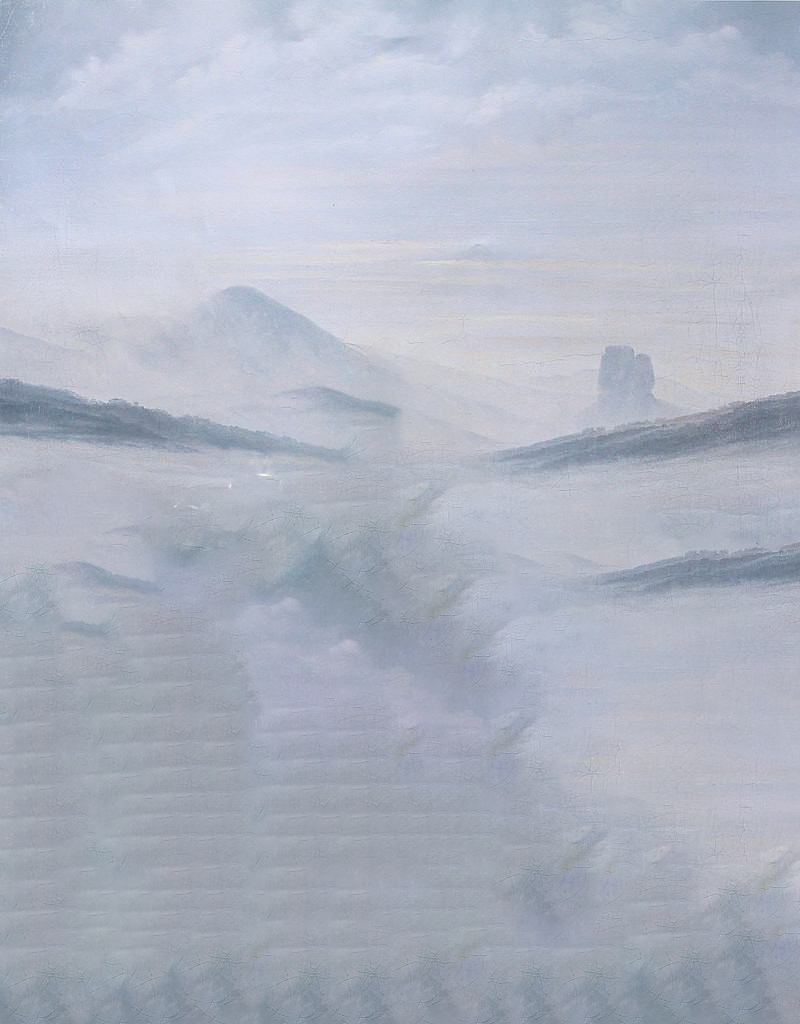
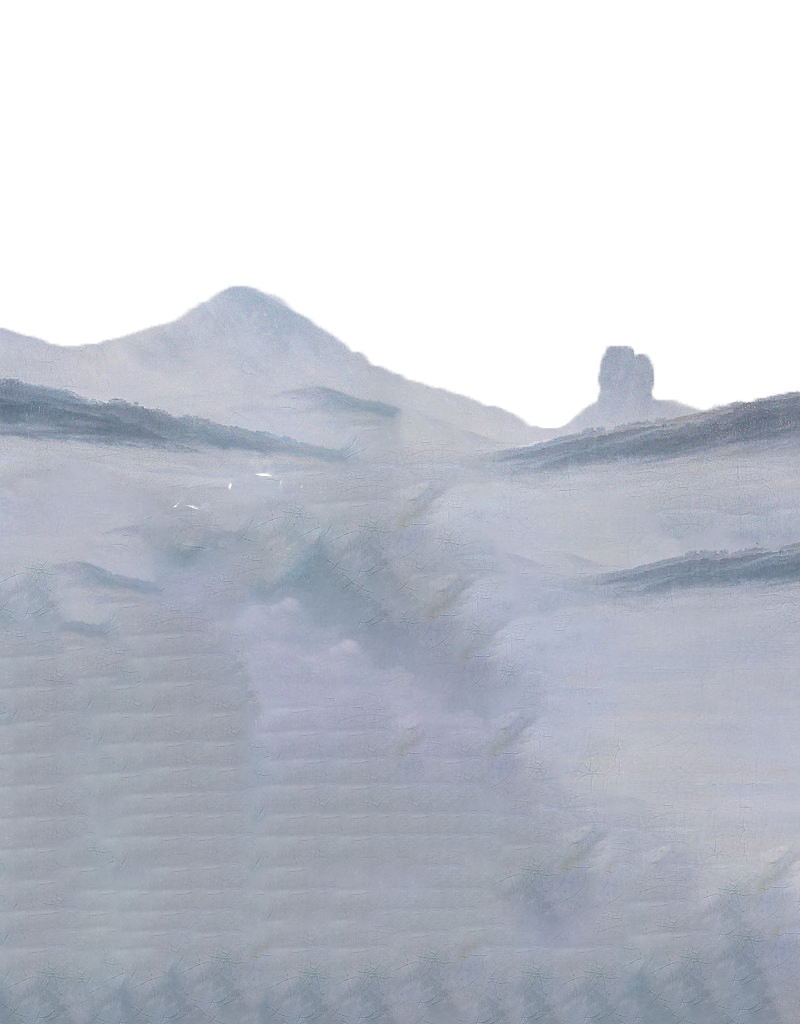
added another layer for wanderer

diff --git a/index.html b/index.html
@@ -50,9 +50,10 @@
     <div id="wanderer" class="pt-page">
       <div class="container">
         <div id="wanderer-scene" data-relative-input="false" class="scene" data-pointer-events="true" data-origin-y="1">
-          <div class="expand-width" data-depth="0.00"><img src="img/wanderer/l4.png"/></div>
-          <div class="expand-width" data-depth="0.20"><img src="img/wanderer/l3.png"/></div>
-          <div class="expand-width" data-depth="0.60"><img src="img/wanderer/l2.png"/></div>
+          <div class="expand-width" data-depth="0.00"><img src="img/wanderer/l5.png"/></div>
+          <div class="expand-width" data-depth="0.10"><img src="img/wanderer/l4.png"/></div>
+          <div class="expand-width" data-depth="0.30"><img src="img/wanderer/l3.png"/></div>
+          <div class="expand-width" data-depth="0.50"><img src="img/wanderer/l2.png"/></div>
           <div class="expand-width" data-depth="1.00"><img src="img/wanderer/l1.png"/></div>
         </div>
       </div>
